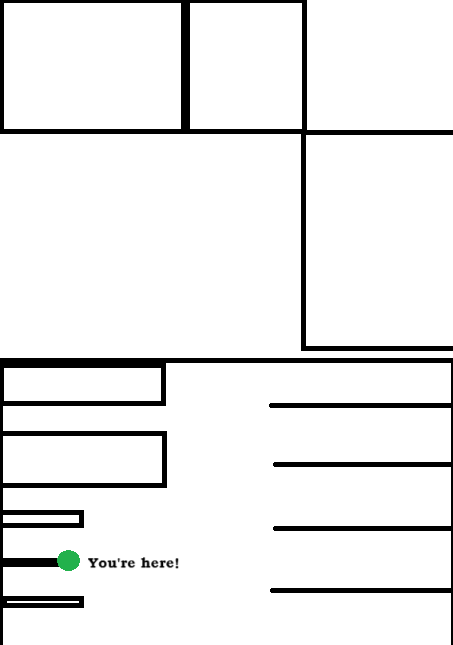
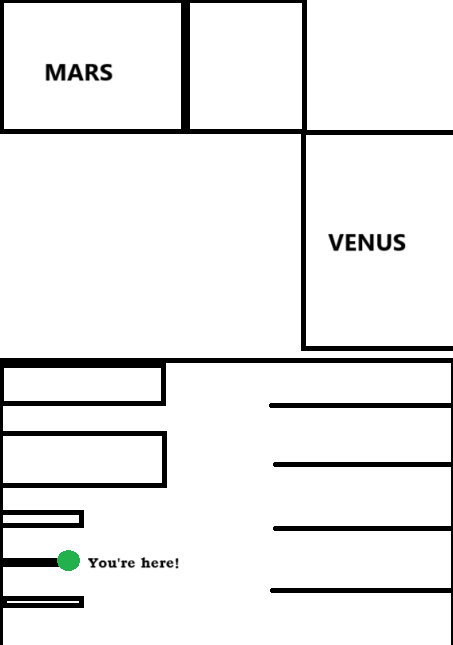
`Updated code for devices page, added PDF download feature, and updated server.js for device status fetching`

Changed region(s): [[0.7108, 0.3411, 0.8962, 0.4031], [0.0927, 0.093, 0.2472, 0.124]]

diff --git a/public/devicesADMIN.html b/public/devicesADMIN.html
@@ -35,6 +35,9 @@
     .details-box table {
       width: 100%;
       border-collapse: collapse;
+      display: block;
+      overflow-x: auto;
+      white-space: nowrap;
     }
 
     .details-box table, .details-box th, .details-box td {
@@ -66,7 +69,7 @@
       cursor: pointer;
     }
 
-    #detailedReportButton {
+    #detailedReportButton, #downloadPdfButton {
       margin-top: 10px;
       background-color: #28a745;
       color: white;
@@ -75,16 +78,17 @@
       border-radius: 5px;
       cursor: pointer;
     }
+
+    #downloadPdfButton {
+      margin-left: 10px;
+      background-color: #007bff;
+    }
   </style>
 </head>
 <body>
     <div class="device-container">
         <input type="text" id="searchBar" placeholder="Search for devices...">
-        <div id="deviceList" class="device-list">
-          <!-- Devices will be dynamically added here -->
-          <div class="device-icon">
-            <img src="/images/device-icon.png" alt="Device Icon">
-        </div>
+        <div id="deviceList" class="device-list"></div>
     </div>
 
     <!-- Dialog Box for Call Quality -->
@@ -93,6 +97,7 @@
       <div id="detailsSummary">
         <h4 id="callQualityStatus"> Call Quality as per current status will be:</h4>
         <button id="detailedReportButton">Show Detailed Report</button>
+        <button id="downloadPdfButton">Download PDF</button>
       </div>
       <div id="details" class="details-box"></div>
         <!-- Details will be added here -->
@@ -102,6 +107,7 @@
       </div>
     </div>
 
+    <script src="https://cdnjs.cloudflare.com/ajax/libs/jspdf/2.4.0/jspdf.umd.min.js"></script>
     <script>
         // Devices array
         const devices = ['VENUS', 'MARS', 'JUPITER', 'SKYLAB', 'PLUTO', 'DC Cabin'];
@@ -110,6 +116,7 @@
         const closeDialogButton = document.getElementById('closeDialog');
         const detailsDiv = document.getElementById('details');
         const detailedReportButton = document.getElementById('detailedReportButton');
+        const downloadPdfButton = document.getElementById('downloadPdfButton');
     
         // Render devices list
         function renderDeviceList() {
@@ -120,9 +127,42 @@
             div.innerText = device;
             div.onclick = () => showDeviceDetails(device);
             deviceList.appendChild(div);
+
+            // Fetch the status for each device
+            fetch(`http://localhost:5500/fetch-status?device=${device}`)
+              .then(response => {
+                if (!response.ok) {
+                  throw new Error(`Network response was not ok. ${response.status}`);
+                }
+                return response.json();
+              })
+              .then(data => {
+                if (data.error) {
+                  div.style.backgroundColor = '#f8d7da'; // Light red for errors
+                  div.style.color = '#721c24'; // Dark red text
+                  div.innerText += ` (Error)`;
+                } else {
+                  if (data.availabilityStatus === 'Free' || data.availabilityStatus === 'FreeUntil') {
+                    div.style.backgroundColor = '#28a745'; // Green for available
+                    div.style.color = 'white';
+                  } else {
+                    div.style.backgroundColor = '#dc3545'; // Red for unavailable
+                    div.style.color = 'white';
+                  }
+                }
+
+                // Add click event to show detailed status
+                div.onclick = () => showDeviceDetails(device, div);
+              })
+              .catch(error => {
+                console.error(`Error fetching status for device ${device}:`, error);
+                div.style.backgroundColor = '#f8d7da'; // Light red for errors
+                div.style.color = '#721c24'; // Dark red text
+                div.innerText += ` (Error fetching data)`;
+              });
           });
-        }
-    
+        }        
+        
         // Filter devices by search query
         document.getElementById('searchBar').addEventListener('input', function() {
           const query = this.value.toLowerCase();
@@ -155,6 +195,7 @@
                 dialog.style.display = 'block';
                 document.getElementById('callQualityStatus').innerText = `Error: ${data.error}`;
                 detailsDiv.innerHTML = `<h4>Invalid device selected or data not available.</h4>`;
+                return;
               }
               dialog.style.display = 'block';
               document.getElementById('callQualityStatus').innerText = `${data.productId}--${data.systemUnitName}
@@ -221,6 +262,47 @@
           detailsDiv.style.display = detailsDiv.style.display === 'none' ? 'block' : 'none';
           detailedReportButton.innerText = detailsDiv.style.display === 'none' ? 'Show Detailed Report' : 'Hide Detailed Report';
         });
+
+        downloadPdfButton.addEventListener('click', () => {
+          const { jsPDF } = window.jspdf;
+          const doc = new jsPDF();
+
+          doc.setFontSize(16);
+          doc.text('Room Report', 10, 10);
+
+          const summaryText = document.getElementById('callQualityStatus').innerText;
+          doc.setFontSize(12);
+          doc.text(summaryText, 10, 20);
+
+          // Get details table content
+          const tableRows = [];
+          const table = detailsDiv.querySelector('table');
+          const rows = table ? table.querySelectorAll('tr') : [];
+
+          rows.forEach((row, index) => {
+            const cells = row.querySelectorAll('td, th');
+            const rowData = [];
+            cells.forEach(cell => {
+              rowData.push(cell.innerText.trim());
+            });
+            tableRows.push(rowData);
+          });
+
+          // Add table content to PDF
+          let yOffset = 30;  // Start from position after summary
+          tableRows.forEach(row => {
+            const rowHeight = 10;
+            const cellWidth = 60;
+            row.forEach((cell, idx) => {
+              doc.text(cell, 10 + idx * cellWidth, yOffset);
+            });
+            yOffset += rowHeight;
+          });
+
+          // Save the PDF
+          doc.save('Room_Report.pdf');
+        });
+
 
         // Close the dialog
         closeDialogButton.addEventListener('click', () => {

diff --git a/public/devicesUSER.html b/public/devicesUSER.html
@@ -80,10 +80,7 @@
 <body>
     <div class="device-container">
         <input type="text" id="searchBar" placeholder="Search for devices...">
-        <div id="deviceList" class="device-list">
-          <!-- Devices will be dynamically added here -->
-          <div class="device-icon">
-            <img src="/images/device-icon.png" alt="Device Icon">
+        <div id="deviceList" class="device-list"></div>
         </div>
     </div>
 
@@ -118,8 +115,41 @@
             const div = document.createElement('div');
             div.className = 'device';
             div.innerText = device;
-            div.onclick = () => showDeviceDetails(device);
+            div.onclick = () => showDeviceDetails(device, div);
             deviceList.appendChild(div);
+
+            // Fetch the status for each device
+            fetch(`http://localhost:5500/fetch-status?device=${device}`)
+              .then(response => {
+                if (!response.ok) {
+                  throw new Error(`Network response was not ok. ${response.status}`);
+                }
+                return response.json();
+              })
+              .then(data => {
+                if (data.error) {
+                  div.style.backgroundColor = '#f8d7da'; // Light red for errors
+                  div.style.color = '#721c24'; // Dark red text
+                  div.innerText += ` (Error)`;
+                } else {
+                  if (data.availabilityStatus === 'Free' || data.availabilityStatus === 'FreeUntil') {
+                    div.style.backgroundColor = '#28a745'; // Green for available
+                    div.style.color = 'white';
+                  } else {
+                    div.style.backgroundColor = '#dc3545'; // Red for unavailable
+                    div.style.color = 'white';
+                  }
+                }
+
+                // Add click event to show detailed status
+                div.onclick = () => showDeviceDetails(device, div);
+              })
+              .catch(error => {
+                console.error(`Error fetching status for device ${device}:`, error);
+                div.style.backgroundColor = '#f8d7da'; // Light red for errors
+                div.style.color = '#721c24'; // Dark red text
+                div.innerText += ` (Error fetching data)`;
+              });
           });
         }
     
@@ -139,7 +169,7 @@
         
         
         // Display device details (mocked data)
-        function showDeviceDetails(device) 
+        function showDeviceDetails(device, deviceElement) 
         {
           fetch(`http://localhost:5500/fetch-status?device=${device}`)
             .then((response) => {
@@ -170,6 +200,7 @@
                 
               </table>`;
               detailsDiv.style.display = 'none';
+
             })
             .catch(error => {
               console.error('Error fetching status.xml:', error);

diff --git a/server.js b/server.js
@@ -43,13 +43,13 @@ app.get('/fetch-status', async (req, res) => {
     
     // Configure based on the device
     if (device === 'VENUS') {
-      url = 'ipaddress/status.xml';
-      credentials = 'password';
+      url = 'https://192.168.10.167/status.xml';
+      credentials = 'Test123:admin@123';
     } 
     else if (device === 'JUPITER') 
     {
-      url = 'ipaddress/status.xml';
-      credentials = 'password';
+      url = 'https://192.168.10.95/status.xml';
+      credentials = 'Test2:Vspl@1234';
     } 
     else if (device === 'DC Cabin') 
     {
@@ -72,6 +72,7 @@ app.get('/fetch-status', async (req, res) => {
     });
 
     if (!response.ok) {
+      console.error(`HTTP error! Status: ${response.status}`);
       throw new Error(`HTTP error! Status: ${response.status}`);
     }
 
@@ -80,6 +81,7 @@ app.get('/fetch-status', async (req, res) => {
 
     console.log('Parsed XML:', jsonObj);
     
+
     //Audio Devices Report
     const handsetUSBReport = jsonObj?.Status?.Audio?.Devices?.HandsetUSB?.ConnectionStatus;
     const headsetUSBReport = jsonObj?.Status?.Audio?.Devices?.HeadsetUSB?.ConnectionStatus;

diff --git a/public/index.html b/public/index.html
@@ -37,8 +37,8 @@
       <div class="contact-us">
         <h3>Contact Us</h3>
         <ul>
-          <li>Anees - Practice Lead, South</li>
-          <li>Sabid - Team Lead, South</li>
+          <li>Anees - Collaboration Practice Lead, South</li>
+          <li>Sabid - Collaboration Team Lead, South</li>
           <li>Roy - Associate</li>
         </ul>
       </div>
